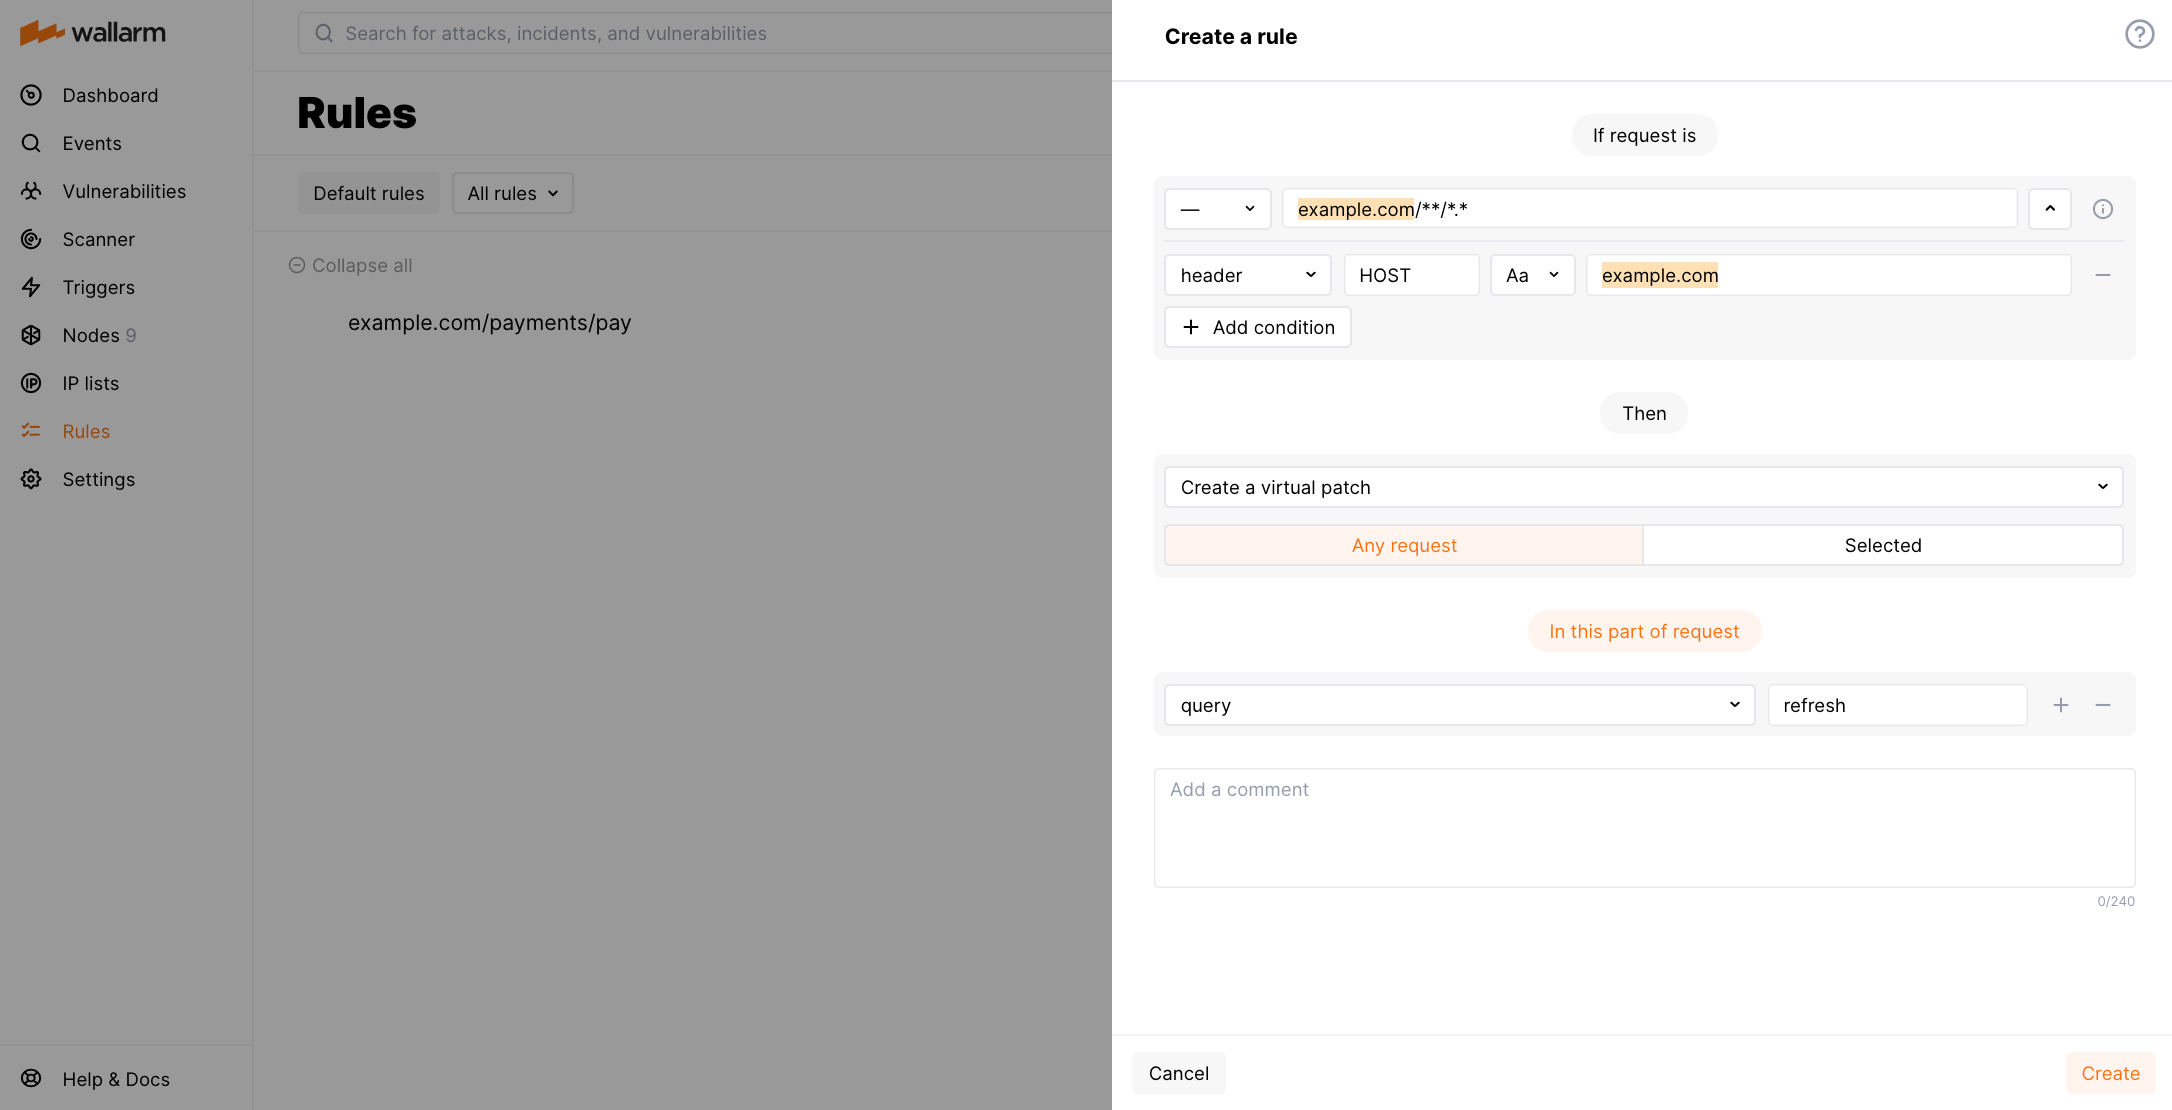
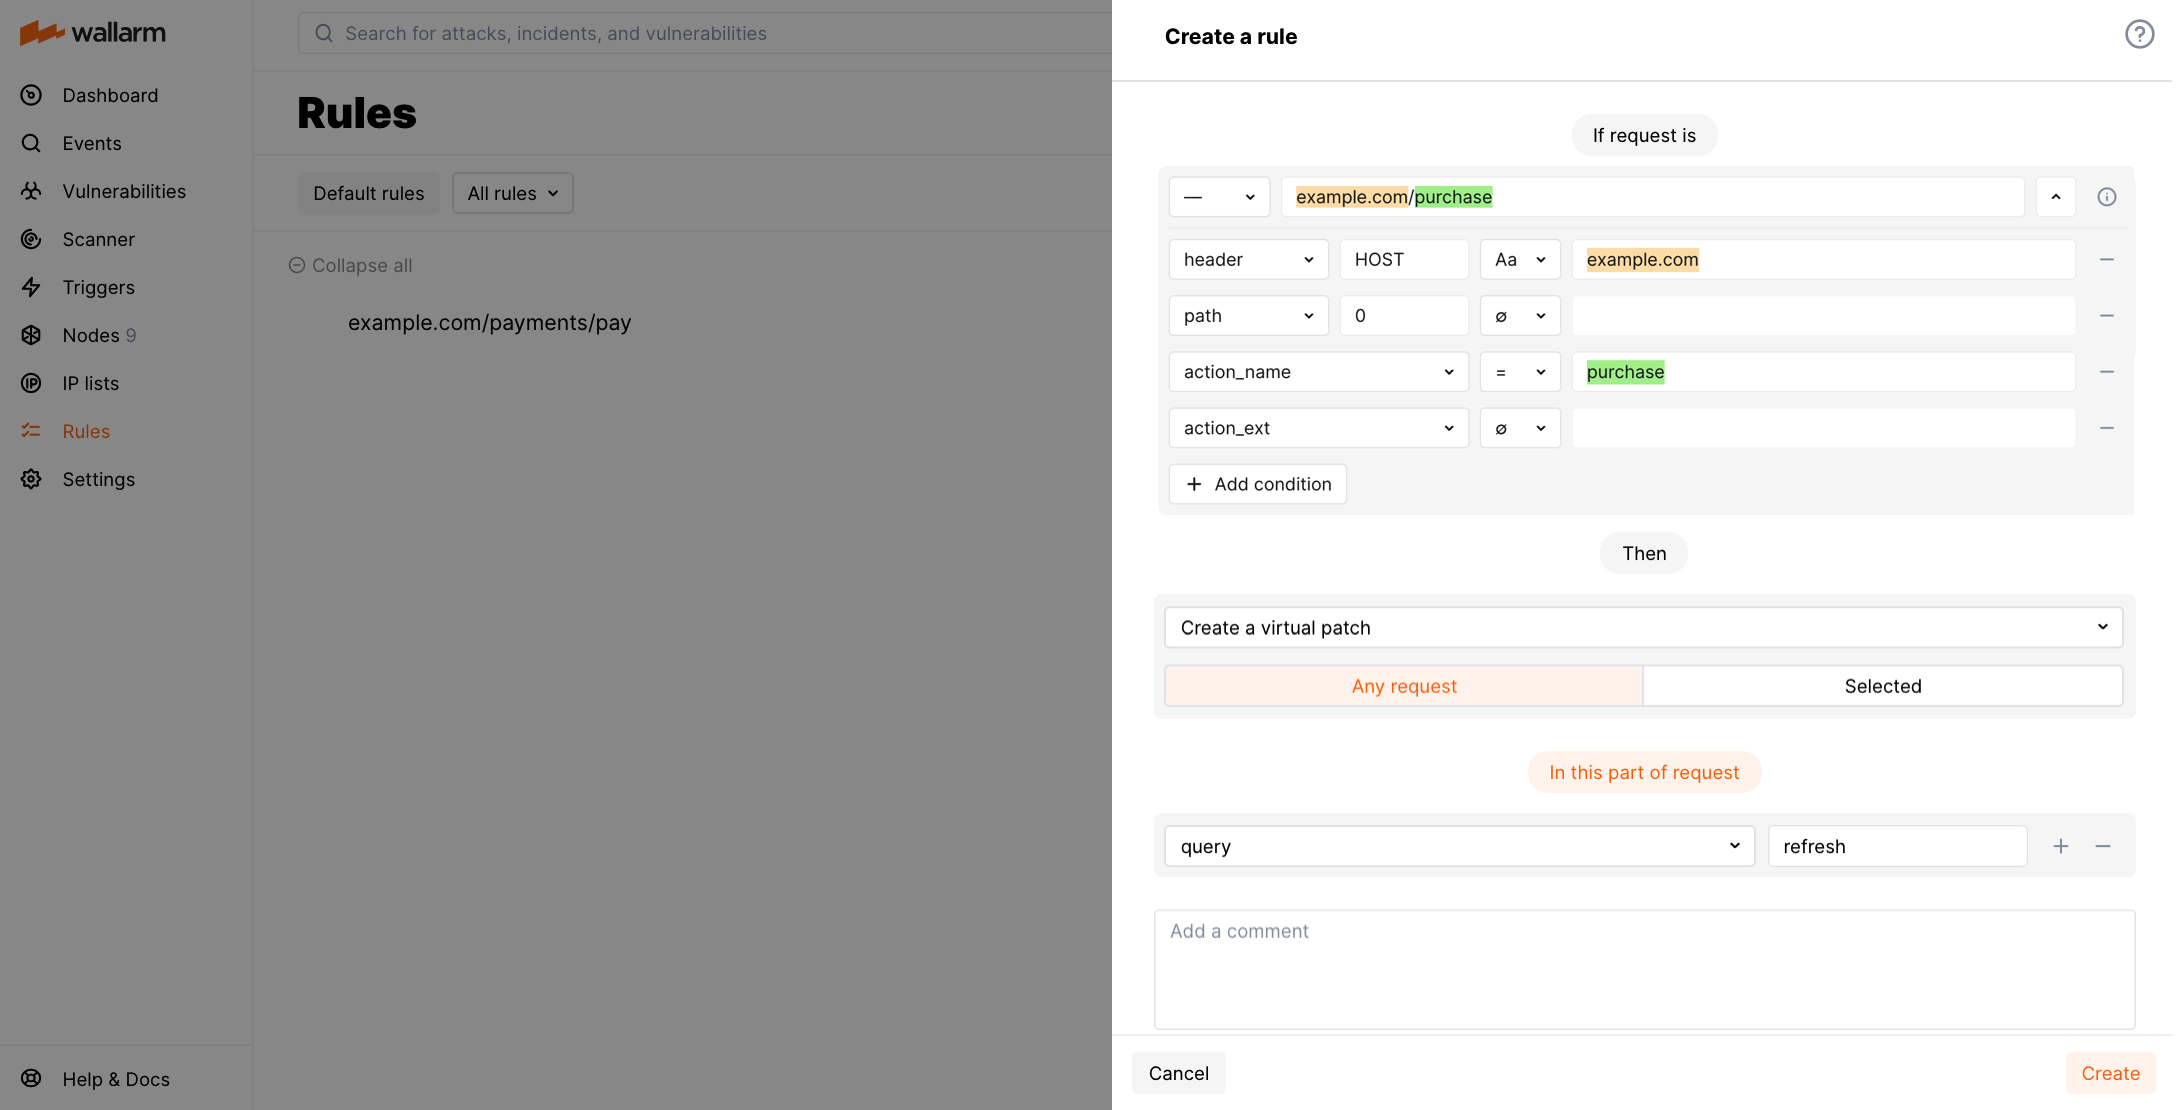
DOCS-2362 Further vpatch article improvements

diff --git a/docs/latest/user-guides/rules/vpatch-rule.md b/docs/latest/user-guides/rules/vpatch-rule.md
@@ -1,17 +1,19 @@
 [img-vpatch-example1]:      ../../images/user-guides/rules/vpatch-rule-1.png
 [img-vpatch-example2]:      ../../images/user-guides/rules/vpatch-rule-2.png
+[img-regex-example1]:       ../../images/user-guides/rules/regex-rule-1.png
 [rule-creation-options]:    ../../user-guides/events/analyze-attack.md#analyze-requests-in-an-event
 [request-processing]:       ../../user-guides/rules/request-processing.md
 
 # Virtual Patching
 
-A virtual patch allows blocking malicious requests even in the monitoring and safe blocking modes or when a request does not seem to contain any known attack vectors. The only requests virtual patches do not block are the ones originating from the [allowlisted](../ip-lists/overview.md) IPs.
+A virtual patch allows blocking malicious requests even in the monitoring and safe blocking [modes](../../admin-en/configure-wallarm-mode.md) or when a request does not seem to contain any known attack vectors. The only requests virtual patches do not block are the ones originating from the [allowlisted](../ip-lists/overview.md) IPs.
 
-Virtual patches are especially useful in cases when it is impossible to fix a critical vulnerability in the code or install the necessary security updates quickly.
+Virtual patches are especially useful in cases when it is impossible to fix a critical [vulnerability](../../user-guides/vulnerabilities.md) in the code or install the necessary updates quickly.
 
-If attack types are selected, the request will be blocked only if the filter node detects an attack of one of the listed types in the corresponding parameter.
+Wallarm provides the following [rules](../../user-guides/rules/rules.md) to create virtual patch:
 
-If the setting *Any request* is selected, the system will block the requests with the defined parameter, even if it does not contain an attack vector.
+* **Create a virtual patch** rule - allows creating virtual patch that blocks requests containing in its selected part one of the [known](../../attacks-vulns-list.md) attack signs, such as SQLi, SSTi, RCE etc. Also, you can select **Any request** to block specific requests without any attack signs.
+* **Create regexp-based attack indicator** rule with **Virtual patch** option selected - allows creating virtual patch that blocks requests containing your own attack signs or your own reason for blocking (see [example](#blocking-all-requests-with-incorrect-x-authentication-header)) that are described with the regular expressions. Details on working with rule based on regular expression are described [here](../../user-guides/rules/regex-rule.md).
 
 ## Creating and applying the rule
 
@@ -19,51 +21,25 @@ If the setting *Any request* is selected, the system will block the requests wit
 
 ## Rule examples
 
-### Blocking SQLi attack in `id` query string parameter
+### Blocking specific requests for selected endpoint
 
-**If** the following conditions take place:
+Let us say your application online purchase section accessible at the `example.com/purchase` endpoint crashes upon processing the `refresh` query string parameter. Before the bug is fixed, you need to block requests leading to the crush.
 
-* the application is accessible at the domain *example.com*
-* the application's parameter *id* is vulnerable to SQL injection attacks
-* the filter node is set to monitoring mode
-* attempts at vulnerability exploitation must be blocked
+To do so, set the **Create a virtual patch** rule as displayed on the screenshot:
 
-**Then**, to create a virtual patch
+![Virtual patch for any request type][img-vpatch-example2]
 
-1. Go to the *Rules* tab
-1. Find the branch `example.com/**/*.*` and click *Add rule*
-1. Choose *Create a virtual patch*
-1. Choose *SQLi* as the type of attack
-1. Select the *QUERY* parameter and enter its value `id` after *in this part of request*
+### Blocking exploitation attempts for discovered but not yet fixed vulnerability
 
-    --8<-- "../include/waf/features/rules/request-part-reference.md"
+Let us say your application accessible at the `example.com` domain has discovered but not yet fixed vulnerability: the application's `id` parameter is vulnerable to SQL injection attacks. Meanwhile, Wallarm filtering node is set to monitoring mode and yet you need to immediately block the vulnerability exploitation attempts.
 
-1. Click *Create*
+To do so, set the **Create a virtual patch** rule as displayed on the screenshot:
 
 ![Virtual patch for a certain request type][img-vpatch-example1]
 
+### Blocking all requests with incorrect `X-AUTHENTICATION` header
 
-### Blocking all requests with `refresh` query string parameter
-
-**If** the following conditions take place:
-
-* the application is accessible at the domain *example.com*
-* the application crashes upon processing the query string parameter `refresh`
-* attempts at vulnerability exploitation must be blocked
-
-**Then**, to create a virtual patch
-
-1. Go to the *Rules* tab
-1. Find the branch `example.com/**/*.*` and click *Add rule*
-1. Choose *Create a virtual patch*
-1. Choose *Any request*
-1. Select the *QUERY* parameter and enter its value `refresh` after *in this part of request*
-
-    --8<-- "../include/waf/features/rules/request-part-reference.md"
-
-1. Click *Create*
-
-![Virtual patch for any request type][img-vpatch-example2]
+--8<-- "../include/waf/features/rules/rule-vpatch-regex.md"
 
 ## API calls for virtual patches
 

diff --git a/docs/latest/user-guides/rules/regex-rule.md b/docs/latest/user-guides/rules/regex-rule.md
@@ -34,14 +34,7 @@ To set and apply your own attack detector:
 
 ### Blocking all requests with incorrect `X-AUTHENTICATION` header
 
-Let us say your application accessible at the `example.com` domain uses the `X-AUTHENTICATION` header in 32 hex symbols format for user authentication and you want to reject incorrect format tokens.
-
-To do so, set the **Create regexp-based attack indicator** rule as displayed on the screenshot, including:
-
-* Regular expression: `[^0-9a-f]|^.{33,}$|^.{0,31}$`
-* Request part: `header` - `X-AUTHENTICATION`
-
-![Regex rule first example][img-regex-example1]
+--8<-- "../include/waf/features/rules/rule-vpatch-regex.md"
 
 ### Block all requests with `class.module.classLoader.*` body parameters
 

diff --git a/include/waf/features/rules/rule-vpatch-regex.md b/include/waf/features/rules/rule-vpatch-regex.md
@@ -1,0 +1,8 @@
+Let us say your application accessible at the `example.com` domain uses the `X-AUTHENTICATION` header in 32 hex symbols format for user authentication and you want to reject incorrect format tokens.
+
+To do so, set the **Create regexp-based attack indicator** rule and set it to **Virtual patch** as displayed on the screenshot, including:
+
+* Regular expression: `[^0-9a-f]|^.{33,}$|^.{0,31}$`
+* Request part: `header` - `X-AUTHENTICATION`
+
+![Regex rule first example][img-regex-example1]
